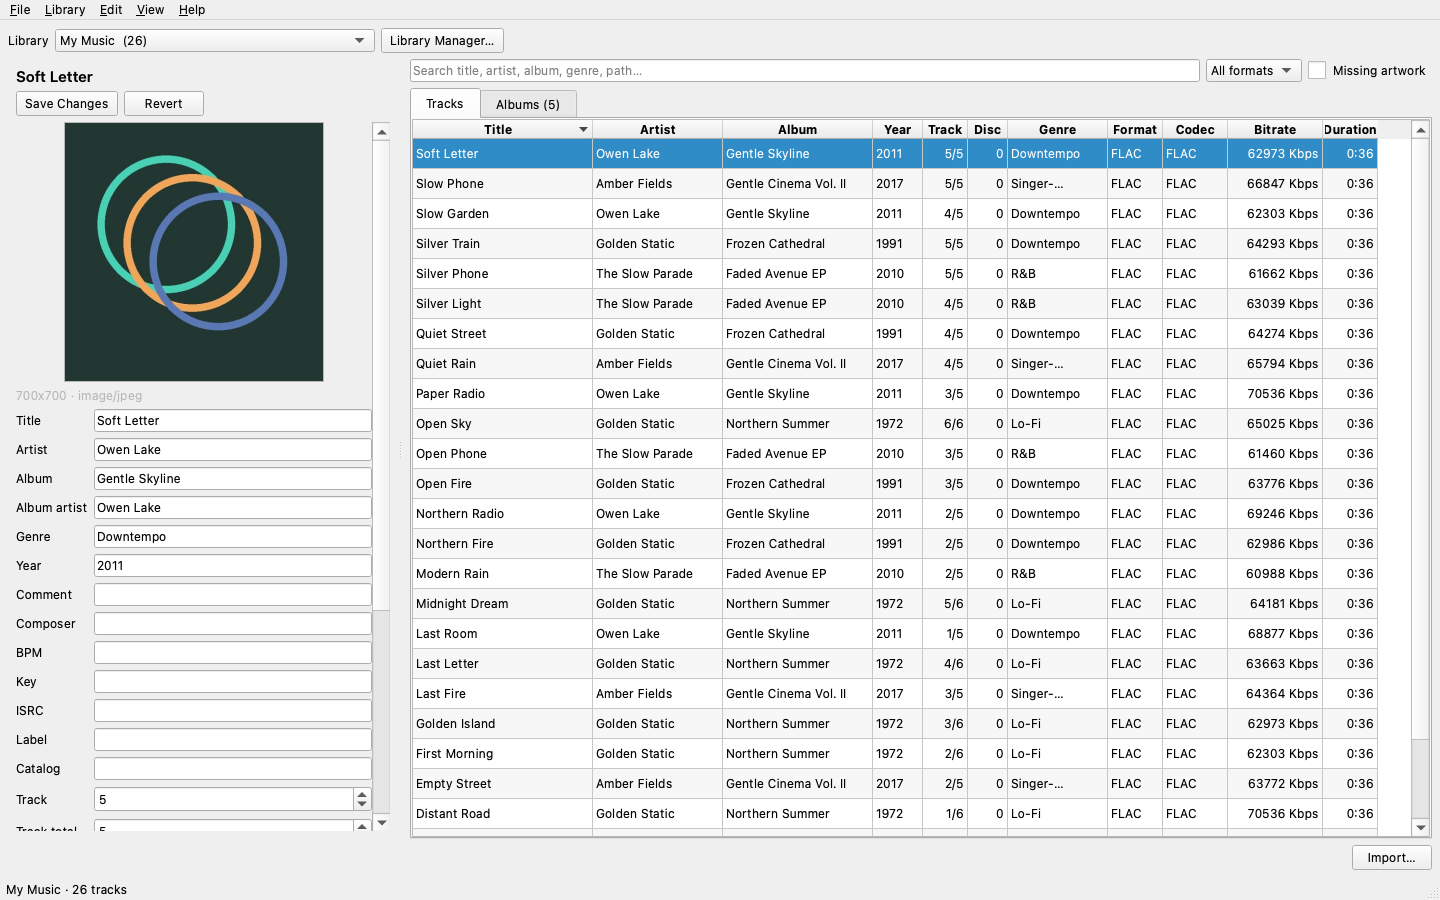
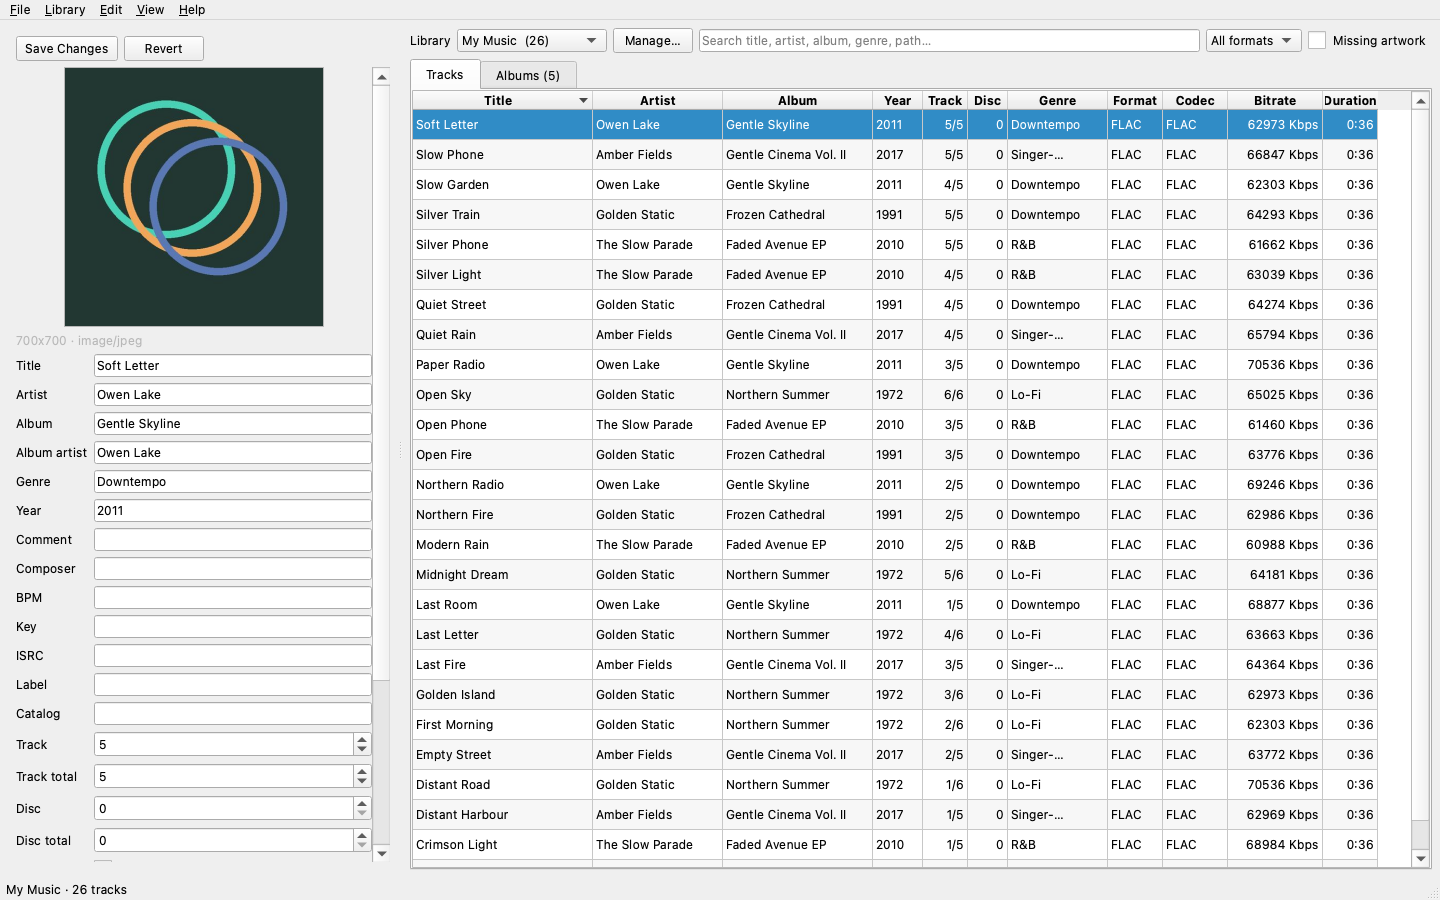
feat: refine two-column layout and album multi-selection

Changed region(s): [[0.25, 0.0311, 1.0, 0.9644], [0.0, 0.0311, 0.25, 0.9022]]

diff --git a/src/trackstash/ui/main_window.py b/src/trackstash/ui/main_window.py
@@ -5,7 +5,7 @@ from __future__ import annotations
 import json
 from pathlib import Path
 
-from PySide6.QtCore import QModelIndex, QPoint, QSize, Qt, QUrl
+from PySide6.QtCore import QItemSelectionModel, QModelIndex, QPoint, QSize, Qt, QUrl
 from PySide6.QtGui import QAction, QDesktopServices, QKeySequence, QPixmap
 from PySide6.QtWidgets import (
     QAbstractItemView,
@@ -107,6 +107,10 @@ class MainWindow(QMainWindow):
     # Actions and menus
 
     def _create_actions(self) -> None:
+        self.import_action = QAction("Import…", self)
+        self.import_action.setShortcut(QKeySequence("Ctrl+I"))
+        self.import_action.triggered.connect(self.import_files)
+
         self.close_action = QAction("Close Window", self)
         self.close_action.setShortcut(QKeySequence.StandardKey.Close)
         self.close_action.triggered.connect(self.close)
@@ -183,6 +187,8 @@ class MainWindow(QMainWindow):
         menu_bar.setNativeMenuBar(True)
 
         file_menu = menu_bar.addMenu("&File")
+        file_menu.addAction(self.import_action)
+        file_menu.addSeparator()
         file_menu.addAction(self.close_action)
         file_menu.addSeparator()
         file_menu.addAction(self.quit_action)
@@ -226,18 +232,6 @@ class MainWindow(QMainWindow):
         outer_layout = QVBoxLayout(outer)
         outer_layout.setContentsMargins(8, 8, 8, 8)
 
-        library_row = QHBoxLayout()
-        library_row.addWidget(QLabel("Library", outer))
-        self.library_combo = QComboBox(outer)
-        self.library_combo.setMinimumWidth(320)
-        self.library_combo.currentIndexChanged.connect(self._library_changed)
-        library_row.addWidget(self.library_combo)
-        manage = QPushButton("Library Manager…", outer)
-        manage.clicked.connect(self.open_library_manager)
-        library_row.addWidget(manage)
-        library_row.addStretch(1)
-        outer_layout.addLayout(library_row)
-
         splitter = QSplitter(Qt.Orientation.Horizontal, outer)
         self.editor = TrackInfoEditor(splitter)
         self.editor.save_requested.connect(self.save_inline_edits)
@@ -250,22 +244,32 @@ class MainWindow(QMainWindow):
         right = QWidget(splitter)
         right_layout = QVBoxLayout(right)
         right_layout.setContentsMargins(8, 0, 0, 0)
-        search_row = QHBoxLayout()
+
+        library_row = QHBoxLayout()
+        library_row.addWidget(QLabel("Library", right))
+        self.library_combo = QComboBox(right)
+        self.library_combo.setMinimumWidth(150)
+        self.library_combo.setMaximumWidth(220)
+        self.library_combo.currentIndexChanged.connect(self._library_changed)
+        library_row.addWidget(self.library_combo)
+        manage = QPushButton("Manage…", right)
+        manage.clicked.connect(self.open_library_manager)
+        library_row.addWidget(manage)
         self.search_edit = QLineEdit(right)
         self.search_edit.setPlaceholderText("Search title, artist, album, genre, path…")
         self.search_edit.setClearButtonEnabled(True)
         self.search_edit.textChanged.connect(self.refresh_tracks)
+        library_row.addWidget(self.search_edit, 1)
         self.format_filter = QComboBox(right)
         self.format_filter.addItem("All formats", "")
         for extension in ("FLAC", "MP3", "M4A", "OGG", "OPUS", "APE", "WV", "WAV", "AIFF"):
             self.format_filter.addItem(extension, extension)
         self.format_filter.currentIndexChanged.connect(self.refresh_tracks)
+        library_row.addWidget(self.format_filter)
         self.missing_artwork = QCheckBox("Missing artwork", right)
         self.missing_artwork.stateChanged.connect(self.refresh_tracks)
-        search_row.addWidget(self.search_edit, 1)
-        search_row.addWidget(self.format_filter)
-        search_row.addWidget(self.missing_artwork)
-        right_layout.addLayout(search_row)
+        library_row.addWidget(self.missing_artwork)
+        right_layout.addLayout(library_row)
 
         self.tabs = QTabWidget(right)
         self.tabs.currentChanged.connect(self._tab_changed)
@@ -320,8 +324,13 @@ class MainWindow(QMainWindow):
         self.album_view.setIconSize(QSize(180, 180))
         self.album_view.setGridSize(QSize(220, 260))
         self.album_view.setSpacing(8)
-        self.album_view.setSelectionMode(QAbstractItemView.SelectionMode.SingleSelection)
+        self.album_view.setSelectionMode(QAbstractItemView.SelectionMode.ExtendedSelection)
+        self.album_view.setSelectionBehavior(QAbstractItemView.SelectionBehavior.SelectItems)
+        self.album_view.setSelectionRectVisible(True)
+        self.album_view.setContextMenuPolicy(Qt.ContextMenuPolicy.CustomContextMenu)
+        self.album_view.customContextMenuRequested.connect(self._album_context_menu)
         self.album_view.doubleClicked.connect(self._album_activated)
+        self.album_view.selectionModel().selectionChanged.connect(self._selection_changed)
         albums_layout.addWidget(self.album_view, 1)
         self.tabs.addTab(albums_tab, "Albums")
         right_layout.addWidget(self.tabs, 1)
@@ -332,12 +341,6 @@ class MainWindow(QMainWindow):
         splitter.setSizes([390, 1010])
         outer_layout.addWidget(splitter, 1)
 
-        bottom = QHBoxLayout()
-        bottom.addStretch(1)
-        self.import_button = QPushButton("Import…", outer)
-        self.import_button.clicked.connect(self.import_files)
-        bottom.addWidget(self.import_button)
-        outer_layout.addLayout(bottom)
         self.setCentralWidget(outer)
 
         self._load_column_config()
@@ -440,6 +443,33 @@ class MainWindow(QMainWindow):
             self.albums_view_action.setChecked(index == 1)
         if index == 1:
             self.refresh_albums()
+        self._selection_changed()
+
+    def _album_context_menu(self, position: QPoint) -> None:
+        index = self.album_view.indexAt(position)
+        if not index.isValid():
+            return
+        selection = self.album_view.selectionModel()
+        if not selection.isSelected(index):
+            self.album_view.setCurrentIndex(index)
+            selection.select(
+                index,
+                QItemSelectionModel.SelectionFlag.ClearAndSelect,
+            )
+        menu = QMenu(self)
+        edit = menu.addAction("Edit Tags for Selected Albums…")
+        auto = menu.addAction("Auto-number Tracks…")
+        organize = menu.addAction("Organize…")
+        delete = menu.addAction("Delete…")
+        chosen = menu.exec(self.album_view.viewport().mapToGlobal(position))
+        if chosen == edit:
+            self.edit_tags()
+        elif chosen == auto:
+            self.auto_number_tracks()
+        elif chosen == organize:
+            self.organize()
+        elif chosen == delete:
+            self.delete_tracks()
 
     def _album_activated(self, index: QModelIndex) -> None:
         album = self.album_model.album_at(index.row())
@@ -475,10 +505,20 @@ class MainWindow(QMainWindow):
     # Selection and inline editor
 
     def selected_track_ids(self) -> list[str]:
+        if hasattr(self, "tabs") and self.tabs.currentIndex() == 1 and hasattr(self, "album_view"):
+            selection = self.album_view.selectionModel()
+            if selection is None:
+                return []
+            ids: list[str] = []
+            for index in selection.selectedIndexes():
+                album = self.album_model.album_at(index.row())
+                if album is not None:
+                    ids.extend(self.db.track_ids_for_album(album.id, self._current_library_id))
+            return list(dict.fromkeys(ids))
         selection = self.table.selectionModel()
         if selection is None:
             return []
-        ids: list[str] = []
+        ids = []
         for index in selection.selectedRows():
             track = self.model.track_at(index.row())
             if track is not None:

diff --git a/tests/test_ui.py b/tests/test_ui.py
@@ -167,7 +167,8 @@ def test_inline_editor_and_column_persistence(
     window.table.selectRow(0)
     assert window.editor.lines["title"].text() == "UI Song"
     assert window.editor.edits()["title"] == "UI Song"
-    assert window.import_button.text() == "Import…"
+    assert window.import_action.text() == "Import…"
+    assert not hasattr(window, "import_button")
 
     from trackstash.ui.models import COLUMNS
 
@@ -248,3 +249,34 @@ def test_inline_save_and_table_sorting(
 
     window.table.sortByColumn(0, Qt.SortOrder.DescendingOrder)
     assert window.model.rowCount() >= 1
+
+
+def test_album_multi_selection(qtbot: QtBot, tmp_path: Path, audio_factory: Path) -> None:
+    from PySide6.QtWidgets import QAbstractItemView
+
+    database, library = _library_with_tracks(tmp_path, audio_factory)
+    service = LibraryService(database, artwork_dir=tmp_path / "Artwork")
+    extra = tmp_path / "Extra"
+    extra.mkdir()
+    source = extra / "second.flac"
+    shutil.copy2(audio_factory / "sample.flac", source)
+    write_tags(
+        source,
+        {
+            "title": "Second UI Song",
+            "artists": ["UI Artist"],
+            "album": "UI Album",
+            "album_artist": "UI Artist",
+        },
+    )
+    service.execute_import(service.plan_import([extra], library.id))
+    window = MainWindow(database, artwork_dir=tmp_path / "Artwork")
+    qtbot.addWidget(window)
+    window.show()
+    window.refresh_libraries()
+    window.tabs.setCurrentIndex(1)
+    assert window.album_view.selectionMode() == QAbstractItemView.SelectionMode.ExtendedSelection
+    window.album_view.selectAll()
+    ids = window.selected_track_ids()
+    assert len(ids) == 2
+    assert window.editor.artwork_info.text()

diff --git a/src/trackstash/ui/editor.py b/src/trackstash/ui/editor.py
@@ -38,9 +38,6 @@ class TrackInfoEditor(QWidget):
 
         layout = QVBoxLayout(self)
         layout.setContentsMargins(8, 8, 8, 8)
-        self.heading = QLabel("Track Info", self)
-        self.heading.setStyleSheet("font-size: 15px; font-weight: 600;")
-        layout.addWidget(self.heading)
         self.save_button = QPushButton("Save Changes", self)
         self.save_button.clicked.connect(self._emit_save)
         self.revert_button = QPushButton("Revert", self)
@@ -155,7 +152,6 @@ class TrackInfoEditor(QWidget):
     def clear(self) -> None:
         self._track = None
         self._tags = None
-        self.heading.setText("Track Info")
         for line in self.lines.values():
             line.clear()
         for spin in self.spins.values():
@@ -163,13 +159,12 @@ class TrackInfoEditor(QWidget):
         self.compilation.setChecked(False)
         for label in self.technical.values():
             label.clear()
-        self.set_artwork(QPixmap(), "")
+        self.set_artwork(QPixmap(), "No track selected")
         self._set_fields_enabled(False)
 
     def set_multi(self, count: int) -> None:
         self._track = None
         self._tags = None
-        self.heading.setText(f"{count} tracks selected")
         for line in self.lines.values():
             line.clear()
         for spin in self.spins.values():
@@ -183,7 +178,6 @@ class TrackInfoEditor(QWidget):
     def load_track(self, track: Track, tags: TagSet) -> None:
         self._track = track
         self._tags = tags
-        self.heading.setText(track.title or "Untitled")
         self.lines["title"].setText(tags.title)
         self.lines["artists"].setText(", ".join(tags.artists))
         self.lines["album"].setText(tags.album)

diff --git a/src/trackstash/core/db.py b/src/trackstash/core/db.py
@@ -965,6 +965,18 @@ class Database:
             rows = connection.execute(sql, parameters).fetchall()
         return [_row_to_track(row) for row in rows]
 
+    def track_ids_for_album(self, album_id: str, library_id: str | None = None) -> list[str]:
+        """Return ordered track IDs for an album."""
+        sql = "SELECT id FROM songs WHERE album_id = ?"
+        parameters: list[Any] = [album_id]
+        if library_id:
+            sql += " AND library_id = ?"
+            parameters.append(library_id)
+        sql += " ORDER BY disc, track, title COLLATE NOCASE"
+        with self.connect() as connection:
+            rows = connection.execute(sql, parameters).fetchall()
+        return [str(row["id"]) for row in rows]
+
     def get_track(self, song_id: str) -> Track | None:
         with self.connect() as connection:
             row = connection.execute(self._TRACK_SELECT + " WHERE s.id = ?", (song_id,)).fetchone()

diff --git a/README.md b/README.md
@@ -16,10 +16,11 @@ consistent without cloud dependencies.
 - **Managed library.** One current library at a time, selected from a native
   dropdown. A Library Manager window handles adding, Quick/Full Scan, relocation,
   ReKey, enable/disable, and index removal. Imports copy by default or move on
-  request from the bottom Import button, with a tag-driven destination template.
+  request from File → Import…, with a tag-driven destination template.
 - **Tracks and Albums views.** A sortable track table with movable/resizable
   columns (`Title`, `Format`, `Codec`, `Bitrate` in Kbps, and more) and a
-  virtualized album grid with cover art. Double-click an album to filter tracks.
+  virtualized album grid with cover art. Double-click an album to filter tracks;
+  select multiple albums for batch editing.
 - **Configurable columns.** Right-click the track header to show or hide columns;
   order, width, and visibility persist and are also editable in Settings.
 - **Tracks-compatible UUIDs.** Library, artist, album, and song IDs use the same

diff --git a/docs/REQUIREMENTS.md b/docs/REQUIREMENTS.md
@@ -548,8 +548,9 @@ Unsupported files are never modified.
 - **Right pane:** virtualized track table or album grid with search and filters.
 - **Media editor (left):** artwork, editable canonical tags, technical properties,
   and a fixed Save/Revert row.
-- **Bottom action bar:** the Import button. Scans, adding libraries, relocation,
-  and ReKey live in the Library Manager window.
+- **Import:** a File → Import… action. Scans, adding libraries, relocation, and
+  ReKey live in the Library Manager window.
+- **Albums view:** multi-select with drag or ⌘-click for batch tag editing.
 - **Import wizard:** source picker, tag preview/edit, copy or move mode, destination
   template preview, collision and duplicate handling, per-file progress, and undo.
 - **Batch editor:** tri-state fields, mixed-value indicators, transform actions,

diff --git a/docs/IMPLEMENTATION_STATUS.md b/docs/IMPLEMENTATION_STATUS.md
@@ -38,7 +38,7 @@
 Test status at the time of writing:
 
 ```text
-56 passed, 2 skipped (default suite)
+57 passed, 2 skipped (default suite)
 2 passed (real-library integration suite)
 ```
 
